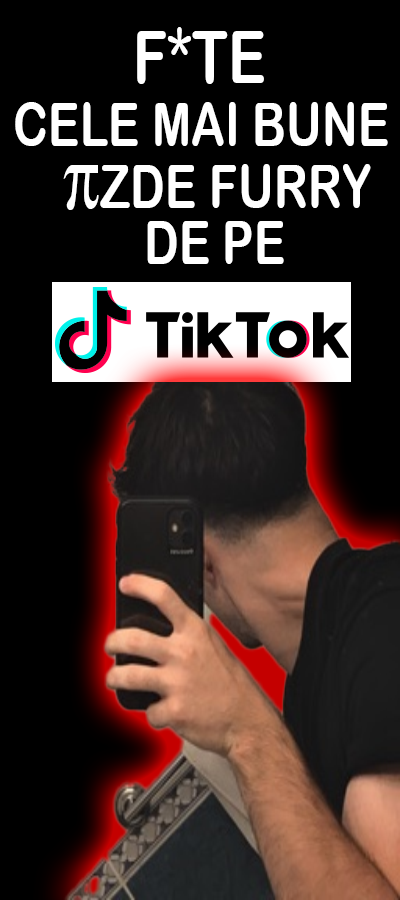
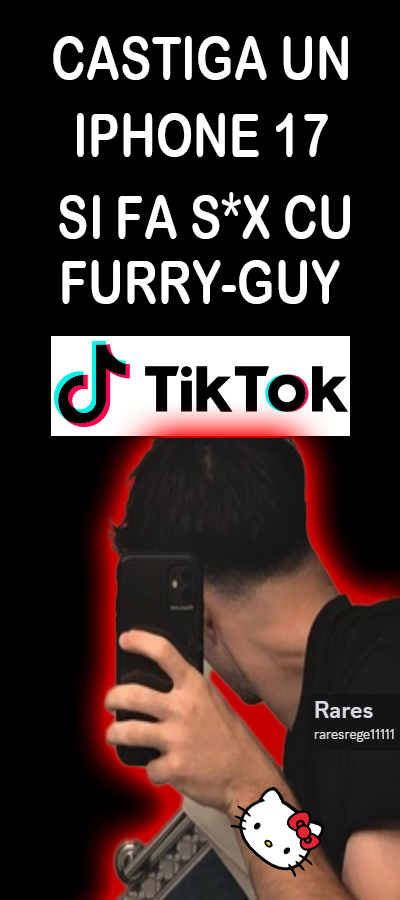
update

diff --git a/index.html b/index.html
@@ -29,7 +29,7 @@
     <div class="container">
         <div class="sidebar">
             <div class="sidebar-content">
-                <img src="/assets/sidebar-left.png" alt="Sidebar" class="sidebar-image">
+                <img src="/assets/advertisement-sinner22.png" alt="Sidebar" class="sidebar-image">
             </div>
         </div>
 
@@ -42,10 +42,10 @@
             </div>
 
             <div class="video-info">
-                <div class="video-title">##no pole</div>
+                <div class="video-title">## CUM SA FACI SELF HOME-MADE PUSSY POCKET</div>
                 <div>
                     <span class="video-badge">Porn World</span>
-                    <span style="color: white;">13min 1080p 17.020.666 👁</span>
+                    <span style="color: white;">3:54min 1080p 17.020.666 👁</span>
                 </div>
                 <div class="video-stats">
                     <div class="stat">⭐ 96.10%</div>
@@ -60,7 +60,7 @@
         </div>
 
         <div class="right-sidebar">
-            <img src="/assets/sidebar-right.png" alt="Promo" class="promo-image">
+            <img src="/assets/advertisement-RARESFURRY.png" alt="Promo" class="promo-image">
         </div>
     </div>
 </body>

diff --git a/404.html b/404.html
@@ -36,7 +36,7 @@
             <div class="error-container">
                 <div class="error-code">404</div>
                 <div class="error-message">NOT FOUND</div>
-                <a href="//" class="back-button">GO BACK HOME</a>
+                <a href="/" class="back-button">GO BACK HOME</a>
             </div>
         </div>
 
